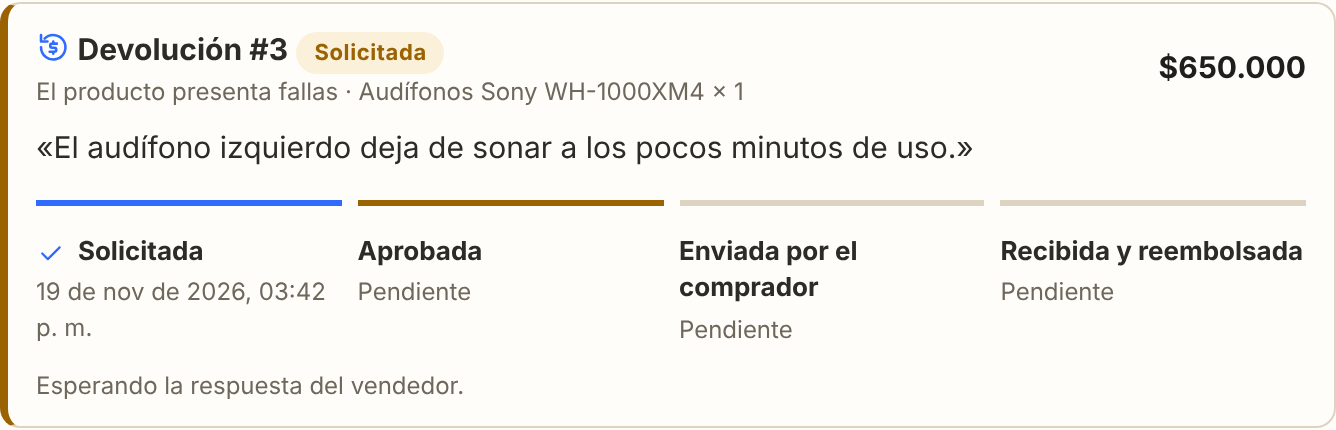
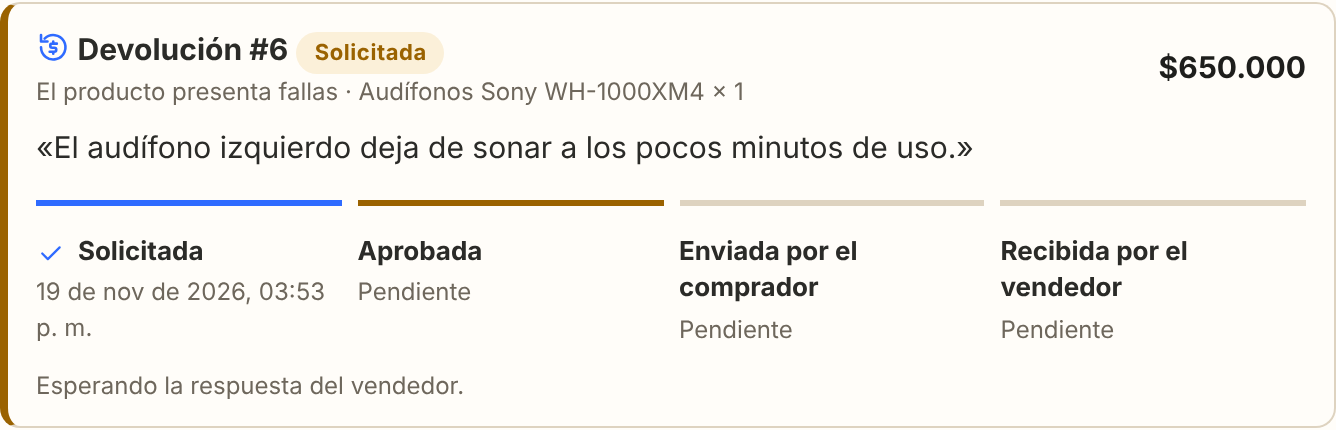
Hace visibles las devoluciones y evita archivos viejos en el navegador
- Mis compras: nueva sección «Mis devoluciones» con instrucciones; en el
  detalle del pedido se explica por qué no se puede devolver (plazo vencido,
  devolución en curso o sin unidades).
- Mis ventas: la sección de devoluciones siempre visible, con estado vacío.
- La interfaz (/web) se sirve con Cache-Control: no-cache para que el
  navegador cargue siempre la versión actual de JS y CSS.

Claude-Session: https://claude.ai/code/session_011fjJa4im279WzeswaYJy5B

diff --git a/frontend/js/pedidos.js b/frontend/js/pedidos.js
@@ -18,6 +18,7 @@ function alCambiarDevolucion() {
 
 async function cargarLista() {
     cargarReembolsos();
+    cargarDevoluciones();
     const lista = document.getElementById("lista");
     lista.innerHTML = `<div class="cargando">Cargando pedidos...</div>`;
 
@@ -87,6 +88,19 @@ function tablaReembolsos(reembolsos) {
                     ${lineaTiempoReembolso(r)}
                 </article>`).join("")}
         </div>`;
+}
+
+async function cargarDevoluciones() {
+    const destino = document.getElementById("devoluciones");
+    if (!destino) return;
+    try {
+        const devoluciones = await api("GET", "/devoluciones/?rol=COMPRADOR");
+        destino.innerHTML = devoluciones.length
+            ? devoluciones.map((d) => tarjetaDevolucion(d, { mostrarPedido: true })).join("")
+            : `<div class="tarjeta vacio"><p>No tienes devoluciones. Cuando solicites una, aquí verás su estado y lo que sigue.</p></div>`;
+    } catch (e) {
+        destino.innerHTML = `<div class="mensaje mensaje-error">No se pudieron cargar las devoluciones: ${esc(e.message)}</div>`;
+    }
 }
 
 async function cargarReembolsos() {
@@ -221,9 +235,17 @@ function bloqueVenta(venta, productos) {
     const devoluciones = devolucionesDelPedido.filter((d) => d.id_venta === venta.id_venta);
     const enCurso = devoluciones.some((d) => ["SOLICITADA", "APROBADA", "ENVIADA"].includes(d.estado));
     const disponibles = productosDevolvibles(productos, devoluciones);
-    if (venta.estado === "ENTREGADA" && venta.dias_para_devolver > 0 && !enCurso && disponibles.length) {
-        acciones = `<button type="button" class="boton boton-secundario boton-chico" data-devolver="${venta.id_venta}">Solicitar devolución</button>
-                    <span class="ayuda u-en-linea">${venta.dias_para_devolver} día${venta.dias_para_devolver === 1 ? "" : "s"} para devolver</span>`;
+    if (venta.estado === "ENTREGADA") {
+        if (enCurso) {
+            acciones = `<span class="ayuda u-en-linea">Devolución en curso (ver abajo).</span>`;
+        } else if (!disponibles.length) {
+            acciones = `<span class="ayuda u-en-linea">No quedan unidades por devolver.</span>`;
+        } else if (!(venta.dias_para_devolver > 0)) {
+            acciones = `<span class="ayuda u-en-linea">El plazo de 15 días para devolver ya venció.</span>`;
+        } else {
+            acciones = `<button type="button" class="boton boton-secundario boton-chico" data-devolver="${venta.id_venta}">Solicitar devolución</button>
+                        <span class="ayuda u-en-linea">${venta.dias_para_devolver} día${venta.dias_para_devolver === 1 ? "" : "s"} para devolver</span>`;
+        }
     }
 
     return `

diff --git a/frontend/js/ventas.js b/frontend/js/ventas.js
@@ -98,21 +98,18 @@ async function cargarLista() {
 }
 
 async function cargarDevoluciones() {
-    const seccion = document.getElementById("devoluciones");
     try {
         const devoluciones = await api("GET", "/devoluciones/?rol=VENDEDOR");
         const enCurso = devoluciones.filter((d) => ["SOLICITADA", "APROBADA", "ENVIADA"].includes(d.estado));
         const cerradas = devoluciones.filter((d) => !enCurso.includes(d));
 
-        seccion.classList.toggle("oculto", !devoluciones.length);
         document.getElementById("devoluciones-en-curso").innerHTML = enCurso.length
             ? enCurso.map((d) => tarjetaDevolucion(d, { mostrarPedido: true })).join("")
-            : `<p class="ayuda">No tienes devoluciones pendientes.</p>`;
+            : `<p class="ayuda">${devoluciones.length ? "No tienes devoluciones pendientes." : "Aún no tienes solicitudes de devolución. Cuando un comprador pida devolver una compra entregada, aparecerá aquí para que la apruebes o rechaces."}</p>`;
         document.getElementById("devoluciones-cerradas-bloque").classList.toggle("oculto", !cerradas.length);
         document.getElementById("devoluciones-cerradas").innerHTML = cerradas.map((d) => tarjetaDevolucion(d, { mostrarPedido: true })).join("");
     } catch (e) {
-        seccion.classList.remove("oculto");
-        document.getElementById("devoluciones-en-curso").innerHTML = `<div class="mensaje mensaje-error">${esc(e.message)}</div>`;
+        document.getElementById("devoluciones-en-curso").innerHTML = `<div class="mensaje mensaje-error">No se pudieron cargar las devoluciones: ${esc(e.message)}</div>`;
     }
 }
 

diff --git a/frontend/pedidos.html b/frontend/pedidos.html
@@ -25,9 +25,15 @@
 
         <div id="lista" class="lista-tarjetas"><div class="cargando">Cargando pedidos...</div></div>
 
+        <section class="seccion-reembolsos" aria-labelledby="titulo-devoluciones">
+            <h2 class="titulo-seccion" id="titulo-devoluciones" data-icono="volver">Mis devoluciones</h2>
+            <p class="subtitulo-seccion">¿Recibiste un producto con fallas o que no esperabas? Puedes devolverlo hasta 15 días después de la entrega: abre el pedido entregado con «Ver detalle» y pulsa «Solicitar devolución».</p>
+            <div id="devoluciones"><div class="cargando">Cargando devoluciones...</div></div>
+        </section>
+
         <section class="seccion-reembolsos" aria-labelledby="titulo-reembolsos">
             <h2 class="titulo-seccion" id="titulo-reembolsos" data-icono="reembolso">Mis reembolsos</h2>
-            <p class="subtitulo-seccion">Cuando cancelas un pedido o parte de él, el dinero vuelve a tu método de pago. Aquí puedes seguir cada reembolso.</p>
+            <p class="subtitulo-seccion">Cuando cancelas o devuelves un pedido o parte de él, el dinero vuelve a tu método de pago. Aquí puedes seguir cada reembolso.</p>
             <div id="reembolsos"><div class="cargando">Cargando reembolsos...</div></div>
         </section>
     </main>

diff --git a/frontend/ventas.html b/frontend/ventas.html
@@ -18,9 +18,9 @@
 
         <div id="solicitudes"></div>
 
-        <section id="devoluciones" class="seccion-devoluciones oculto" aria-labelledby="titulo-devoluciones">
+        <section id="devoluciones" class="seccion-devoluciones" aria-labelledby="titulo-devoluciones">
             <h2 class="titulo-tarjeta" id="titulo-devoluciones" data-icono="reembolso">Devoluciones</h2>
-            <div id="devoluciones-en-curso"></div>
+            <div id="devoluciones-en-curso"><div class="cargando">Cargando devoluciones...</div></div>
             <details class="u-mt-10" id="devoluciones-cerradas-bloque">
                 <summary>Devoluciones terminadas</summary>
                 <div id="devoluciones-cerradas" class="u-mt-10"></div>

diff --git a/backend/app/main.py b/backend/app/main.py
@@ -46,6 +46,15 @@ logging.basicConfig(
 logger = logging.getLogger("electromarket")
 
 
+@app.middleware("http")
+async def sin_cache_en_la_interfaz(request: Request, llamar_siguiente):
+    """La interfaz (/web) se revalida siempre: el navegador no usa JS o CSS viejos tras una actualización."""
+    respuesta = await llamar_siguiente(request)
+    if request.url.path.startswith("/web"):
+        respuesta.headers["Cache-Control"] = "no-cache"
+    return respuesta
+
+
 @app.exception_handler(ErrorAplicacion)
 def manejar_error_aplicacion(request: Request, error: ErrorAplicacion):
     """Errores de negocio: cada clase define su código HTTP."""
